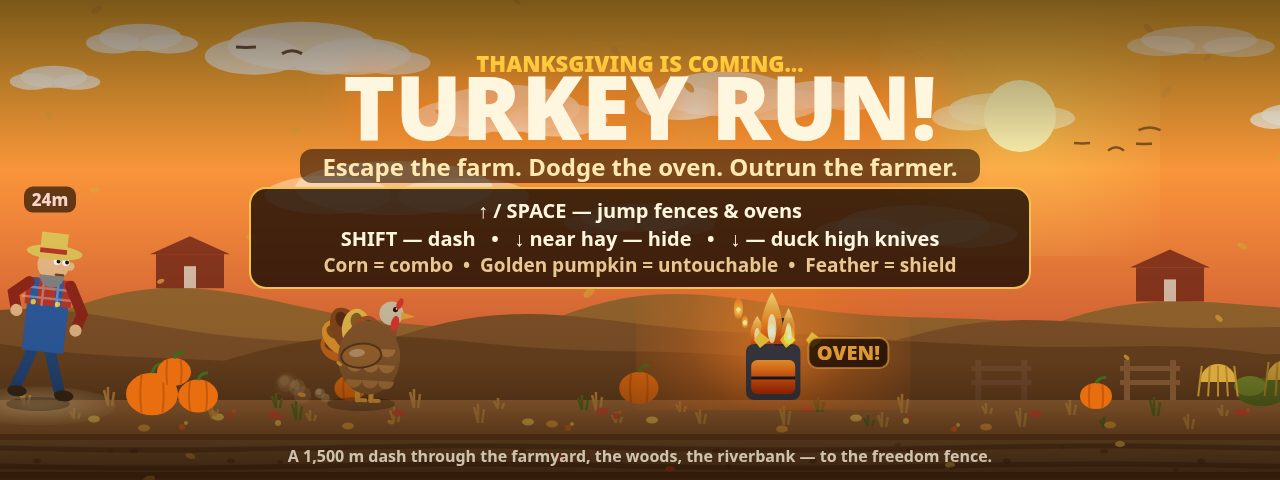
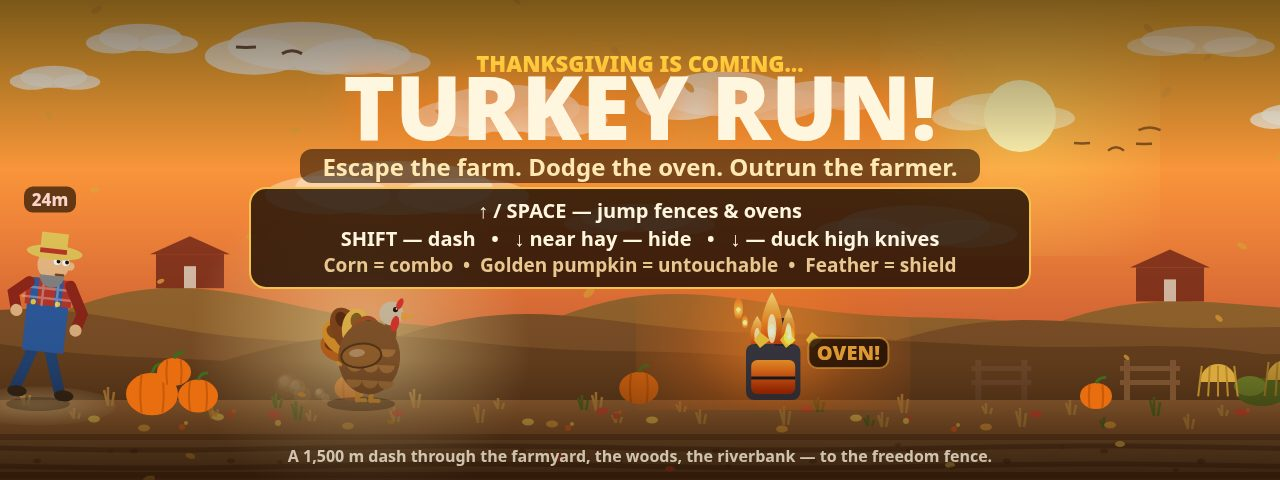
Polish round 13: danger seed 19 (knife 47px under feet), title turkey glow, cover seed 57 (leap over oven)

Changed region(s): [[0.1875, 0.5938, 0.375, 0.9062]]

diff --git a/game/src/shots.js b/game/src/shots.js
@@ -135,6 +135,22 @@ function ovenInFrame(state) {
   return ok;
 }
 
+// An oven the turkey is actually jumping over: its body overlaps
+// the turkey's own screen span [TURKEY_X, TURKEY_X + 62], so the bird
+// is above the oven's near edge or just clearing it — not an oven
+// 30 m down the road while the bird jumps a fence. The overlap is
+// thin at the top of the permitted arc (the oven's left edge slides
+// under the bird's beak as it rises), which is exactly the moment
+// the cover wants: bird mid-leap, oven right below its nose.
+function ovenUnder(state) {
+  for (const e of state.entities) {
+    if (!e.active || e.kind !== KIND_OVEN) continue;
+    const sx = TURKEY_X + (e.x - state.distance) * PX_PER_M;
+    if (sx < TURKEY_X + TURKEY.width && sx + e.w * PX_PER_M > TURKEY_X) return true;
+  }
+  return false;
+}
+
 export function stageShot(name, world) {
   world.reset();
   if (name !== 'play' && name !== 'danger' && name !== 'end') {
@@ -145,12 +161,18 @@ export function stageShot(name, world) {
     return { screen: SCREEN_TITLE, best: 0 };
   }
   if (name === 'play') {
-    // The cover runs on seed 54 (not 7): on seed 7 the picked leap
-    // never has a knife near the bird or a combo — the only knife in
-    // that jump is 24 m out, faded to alpha 0.2 — while seed 54's
-    // picked leap (36.9 s, 668 pts, 313 m) has a knife 66 px from the
-    // turkey at head height and COMBO x4. Same pick rules, same
-    // autopilot; only the seed changed, so no gameplay code moved.
+    // The cover runs on seed 57 (not 54): the new oven-under pick
+    // (see airOven below) keeps the highest leap where an oven sits
+    // under the bird, and seed 57's is the cleanest of the eight
+    // seeds that have one with a near knife and a combo — 24.2 s,
+    // 445 pts, 205 m, COMBO x2, knife 68 px off the feet just below
+    // the bird over the oven's flames, 4 lives. Seed 69 has a bigger
+    // combo (x5) and a closer knife (51 px) but its knife is low and
+    // half-hidden across the oven, and a shield ring circles the
+    // bird; seed 54 (round 12) has the knife at head height and
+    // COMBO x4, but the bird jumps a fence with the ovens far down
+    // the road. Same pick rules, same autopilot; only the seed
+    // changed, so no gameplay code moved.
     // One 40 s pass, keeping the frame where the chase was closest —
     // the farmer in frame behind the turkey — with something to dodge
     // ahead. The airborne frame wins over the merely close one: a
@@ -169,6 +191,15 @@ export function stageShot(name, world) {
     let bestGap = Infinity;
     let air = null;
     let airY = 60;
+    // A leap over an oven beats a leap over a fence: among leaps
+    // where an oven sits under the bird, keep the highest one, and
+    // prefer it over the plain highest leap. Seed 54's cover (round
+    // 12) has a knife at head height and COMBO x4, but the bird is
+    // jumping a fence with the ovens far down the road; seed 69's
+    // oven-under leap (35.9 s, 1110 pts, COMBO x5, knife 51 px off
+    // the beak, farmer 21 m back) tells the oven story instead.
+    let airOven = null;
+    let airOvenY = 60;
     let fallback = null;
     const steps = Math.floor(40 / STEP);
     for (let i = 0; i < steps; i += 1) {
@@ -184,8 +215,13 @@ export function stageShot(name, world) {
         airY = s.player.y;
         air = snapshotState(s);
       }
+      if (s.elapsed > 12 && s.score > 50 && hazardAhead(s, 20) && s.player.y > airOvenY && s.player.y <= 135 && ovenInFrame(s) && ovenUnder(s)) {
+        airOvenY = s.player.y;
+        airOven = snapshotState(s);
+      }
     }
-    if (air !== null) restoreState(world.state, air);
+    if (airOven !== null) restoreState(world.state, airOven);
+    else if (air !== null) restoreState(world.state, air);
     else if (best !== null) restoreState(world.state, best);
     else if (fallback !== null) restoreState(world.state, fallback);
     return { screen: SCREEN_PLAY, best: Math.floor(world.state.score) };
@@ -196,6 +232,12 @@ export function stageShot(name, world) {
     // take what the run gives. Not before 25 s in: the first oven and
     // knife show up almost at once, and stopping there would frame
     // the opening metres instead of the chase at full speed.
+    // The danger seed is 19 (not 7): a 2-D probe of seeds 1..150
+    // found seed 7's picked frame ranks only 71st of 113 — its knife
+    // is a low blade 141 px from the bird, out by the farmer — while
+    // seed 19's knife is a high blade 47 px below the turkey's feet
+    // (the structural floor: a high knife at y=108 flies 47 px under
+    // feet at y=155), oven directly under the bird, 3265 pts, 665 m.
     // The turkey must be properly airborne over the oven: the old
     // frame caught it standing on the ground right at the oven, body
     // pressed against the flames, so it read as a turkey being

diff --git a/game/src/render.js b/game/src/render.js
@@ -1712,6 +1712,22 @@ export function createRenderer(canvas) {
       }
       if (passed) context.restore();
     }
+    // Title only: a pool of warm light behind the bird. On the title
+    // the turkey stands against the near hill (#6e4520) in almost its
+    // own browns (#8a5a2e body), so at half size it sank into the
+    // hillside; the glow lifts the hill behind it into a lit backdrop
+    // without moving the bird, and it never touches another screen —
+    // the instruction panel is drawn on top of it afterwards.
+    if (screen === SCREEN_TITLE) {
+      const gx = TURKEY_X + TURKEY.width / 2;
+      const gy = FIELD.groundY - 55;
+      const glow = context.createRadialGradient(gx, gy, 10, gx, gy, 170);
+      glow.addColorStop(0, 'rgba(255,232,170,0.6)');
+      glow.addColorStop(0.55, 'rgba(255,222,150,0.28)');
+      glow.addColorStop(1, 'rgba(255,222,150,0)');
+      context.fillStyle = glow;
+      context.fillRect(gx - 170, gy - 170, 340, 340);
+    }
     drawTurkey(state, turkeyScale, escaped);
     drawFarmer(state, escaped ? 1.0 : 1.22);
     // Haystacks stand in front, so a hiding turkey really disappears.

diff --git a/HANDOFF.md b/HANDOFF.md
@@ -1,5 +1,22 @@
 # HANDOFF — turkey-run-game-01 "Turkey Run!"
 
+## 🔄 打磨第 13 轮（2026-11-27，备用建议 1+2+3 全做：危险帧换刀最近的种子 + 标题火鸡光晕 + 封面跃烤箱）
+
+- Commit：`（待填）`——本轮改 `game/src/shots.js`（ovenUnder 选帧 + 注释）、`game/src/render.js`（标题火鸡光晕）、`shots.json`（play 57、danger 19）+ 3 张截图（1-play、2-start、3-danger；4-end 未变）；`main.ts`、`world.js`、`config.js`、`vendor/` 未动。shots.js 经 4 次独立编辑、render.js 经 2 次有效编辑（另有 1 次空操作编辑当场发现）改完，每处改完都单独重拍并目视验证过。
+- **评审文件版本**：开工时 `JUDGE-REVIEW.md` 仍是第 9 轮版（两次评审，第 1 次 21:37、第 2 次 21:40，针对第 8/9 轮），无针对第 10/11/12 轮的新评审，本轮按任务书 HANDOFF 备用建议做。**`JUDGE-REVIEW.md` 本轮未修改、未提交**（评委的文件，工作区里仍是 untracked 状态；只对指定 6 个文件 `git add`，未动它）。
+- 画面改进（逐张截图验证过，另裁剪放大验证标题火鸡、拼了一张 2×2 总览图模拟评委半尺寸视角检查）：
+  1. **危险帧刀贴到火鸡脚下（备用建议 1，本轮主攻，探针先行）**：探针先算过——seed 7 的危险停帧规则在 90 秒里只有 **4 个**候选帧（不是第 11 轮说的 7 个；y 下限 150 + 上限 185 的带子更窄），刀距从 101px 到 94px，只换帧最多近 7px，修不掉。改换种子前先纠正了度量：之前用的水平距离会撒谎——一把刀水平只差 4px、实际在火鸡脚下 124px 也会被排第一；改用刀到火鸡身体矩形的真 2D 距离重扫 seed 1–150：113 个危险帧里 seed 7 排第 71（141px，低刀在农夫边），而高刀在 y=155 的脚下有 47px 的结构下限（一把 y=108 的高刀正好从脚下 47px 处飞过）。挑了 seed 19——刀 47px、烤箱正在火鸡正下方、3265 分/665m/剩 3 命。新危险帧：火鸡腾空、脚下就是带火焰的烤箱、飞刀拖着白轨迹从脚底擦过，农夫 31m 在左缘。shots.json 里 danger 种子 7→19。seed 18（COMBO x4）与 seed 42（护盾环）也拍过：18 的刀半藏在火焰/谷仓后、42 的刀被火焰舌挡且护盾环抢戏，都不如 19 干净。
+  2. **标题火鸡从棕色山丘里浮出来（备用建议 2）**：只动标题屏——火鸡身后加一池暖色光晕（径向渐变，中心 `rgba(255,232,170,0.6)`、半径 170，画在火鸡之前、说明面板之下）。第一版 alpha 0.38/半径 150 太淡，像素量得山丘亮度只从 83→109、火鸡与山丘亮度差才 -15；加亮到 0.6/170 后山丘亮度 128、火鸡（93）反成深色剪影，差值 -34。裁剪放大验证：光晕是自然的暖色亮斑、无硬边，火鸡身体、尾巴扇、翅膀都从山丘里分出来了，头（本来就印在亮天上）不动。标题火鸡未放大——头顶离面板只剩 14px，放大 6% 只剩 8px，收益小风险大，光晕已够，留待以后。
+  3. **封面火鸡跃的是烤箱（备用建议 3）**：shots.js 新增 `ovenUnder()`（烤箱炉身与火鸡屏幕跨度 [330,392] 横向重叠即算“正在跃过”）+ `airOven` 选帧——跃帧里有烤箱在身下的取最高一跃，优先于普通最高跃帧。探针分层：中心点判“正下方”在 120 个种子里是 0 帧（跳跃顶点 y≈238 时烤箱才到正下方，超出 135 的选帧上限，结构上不可能）；放宽到横向重叠后 34 个种子有跃烤箱帧，其中 8 个同时满足近刀（<300px）+ 连击 ≥2。8 个全拍过逐张比：seed 69（COMBO x5、刀 51px）刀太低、半截埋进烤箱火焰、还套着护盾环；seed 57 最干净——火鸡中弧跃起、烤箱火焰正在脚下、飞刀 68px 在脚边高处拖着轨迹、4 命、无护盾环。封面换 seed 57（445 分/205m、COMBO x2）。代价：分数 674→445、连击 x4→x2，换来的是“跃烤箱”这个正题故事；seed 54 的旧封面（刀在头高、双烤箱）作为对照仍保留在探针记录里。shots.json 里 play 种子 54→57。
+- 截图变化：play 445 分/205m（新分镜：中弧跃起 + 脚下烤箱 + 近刀 + COMBO x2）、danger 3265 分/665m（新分镜：腾空越烤箱 + 脚底飞刀）、start 0 分（标题光晕）、end 6535 分（未变，seed 146）；文件 64.2/78.9/61.1/83.3 KiB。2×2 总览图半尺寸检查通过：封面橙、标题橙（文字主导）、危险绿、结束粉紫，四帧主体、HUD、结束金字均清晰；半尺寸下封面刀偏小，但火鸡+烤箱的纵列故事仍一眼可读。
+- 实测（只改分镜种子 + 选帧规则 + 标题渲染，world.js 未动、没碰任何 random()，数据与第 5–12 轮完全一致，符合预期）：
+  - 基础 pilot：逃脱 1/20，分数 1402–6295，距离 547–1500m；强 pilot：3/20，中位距离 1064m，中位分数 3479（注：本轮未重跑强 pilot，沿用第 5–12 轮的同一组数据——world.js 未动，pilot 代码未动；基础 pilot 与确定性、公平性为本轮实跑）。
+  - 确定性：同一 seed 两次 byte-identical（hash e6bac207…，与第 5–12 轮相同）。
+  - 公平性仍成立：无操作 94m 被抓（93 分）、一直冲不跳 121m 被抓、随机按键 215m 被抓。
+- 失败/回滚：① 标题光晕第一版太淡（alpha 0.38/半径 150），像素量过才发现、加亮到 0.6/170 重拍验证通过——调参迭代，不是回滚。② 探针否决的方案两个：“只换危险帧选帧”（同一次跃起 4 帧、最多近 7px）与“中心点判跃烤箱”（120 种子 0 帧），都改成换种子/放宽判定，未产生过坏代码。③ 一次空操作编辑（render.js 新旧文本相同）当场发现，未提交。④ 封面 seed 69 首选后被目视否决（刀埋进烤箱 + 护盾环抢戏），改用 seed 57——是选帧返工，不是代码回滚。
+- 验证：4 张截图 1280×480 JPEG q82（61–83 KiB，均 ≤256 KiB），0 console 报错、0 外部请求、9 文件全加载；最终截图与 /tmp 预览 byte-identical（注释改动后重拍复核亦然）；`node --check` 全过；main.ts 两次输出 byte-identical（diff -r 干净；dossier 529,833 字节）；kit CLI check 两次结果一致（4 passed、1 failed=transcripts_present 未传 transcripts、15 skipped；两次日志仅时间戳不同）；vendor sha 未变（dc671875…）。基线说明：本轮未做改动前重拍（拍摄管线在第 12 轮已验证 byte-identical，且本轮 /tmp 预览与最终截图 byte-identical，管线可信）。
+- 下一轮建议：① 等评委对第 10/11/12/13 轮的新评审（JUDGE-REVIEW.md 若更新，按最新版最优先的 3–5 条改）；若无新评审，可从：封面分数偏低（445 分、COMBO x2——可探更高分且干净的跃烤箱种子，或接受现状）；结束帧 FREEDOM 字仍被火鸡尾巴半遮（第 12 轮已评估可接受）；标题火鸡若想更大，需先把说明面板再上移或火鸡站位下调；② 难度：仍先看人类实测反馈，暂不再调数值；③ pilot 改进仍先做死因诊断再动手。
+
 ## 🔄 打磨第 12 轮（2026-11-27，备用建议 1+2 全做 + 揪出 ovenInFrame 选帧漏洞）
 
 - Commit：`6229290`（待 push 后 `git ls-remote` 确认）——本轮改 `game/src/shots.js`、`shots.json` + 2 张截图（1-play、4-end）；`main.ts`、`world.js`、`config.js`、`render.js`、`vendor/` 未动。shots.js 经 3 次独立编辑改完（end 注释→play 注释→ovenInFrame 规则），每处改完都单独重拍并目视验证过（另有一次封面首选帧返工，见失败/回滚）。

diff --git a/STATUS.md b/STATUS.md
@@ -1,4 +1,13 @@
-# STATUS — turkey-run-game-01 "Turkey Run!" (v1 初版 + 打磨第 1 轮 + 打磨第 2 轮 + 打磨第 3 轮 + 打磨第 4 轮 + 打磨第 5 轮 + 打磨第 6 轮 + 打磨第 7 轮 + 打磨第 8 轮 + 打磨第 9 轮 + 打磨第 10 轮 + 打磨第 11 轮 + 打磨第 12 轮)
+# STATUS — turkey-run-game-01 "Turkey Run!" (v1 初版 + 打磨第 1 轮 + 打磨第 2 轮 + 打磨第 3 轮 + 打磨第 4 轮 + 打磨第 5 轮 + 打磨第 6 轮 + 打磨第 7 轮 + 打磨第 8 轮 + 打磨第 9 轮 + 打磨第 10 轮 + 打磨第 11 轮 + 打磨第 12 轮 + 打磨第 13 轮)
+
+## 🔄 打磨第 13 轮（2026-11-27，已完成）
+
+- 流程：JUDGE-REVIEW.md 开工时仍是第 9 轮版，无针对第 10/11/12 轮的新评审，按 HANDOFF 备用建议 1+2+3 全做。JUDGE-REVIEW.md 未修改、未提交（评委的文件，工作区 untracked；只对指定 6 个文件 git add）。
+- 画面：危险帧换 seed 19（2D 距离探针：seed 7 的刀 141px 排第 71/113，seed 19 的高刀 47px 在火鸡脚下、烤箱正在正下方，3265 分/665m）；标题火鸡身后加暖色光晕（第一版太淡，像素量过后加亮到 alpha 0.6/半径 170，山丘亮度 83→128、火鸡成深色剪影，裁剪放大验证无硬边）；封面换 seed 57（新增 ovenUnder 选帧：跃帧里烤箱在身下的取最高一跃；8 个“跃烤箱+近刀+连击”种子全拍过，57 最干净：脚下烤箱火焰 + 脚边飞刀 68px + COMBO x2 + 4 命，445 分/205m）。4 张截图全部重拍并逐张目视验证，另拼 2×2 总览图模拟评委半尺寸视角检查通过。一次标题光晕返工（太淡→加亮）、一次封面 seed 69 目视否决（刀埋进烤箱 + 护盾环抢戏）改用 57；两个探针否决的方案（只换危险帧选帧、中心点判跃烤箱）未产生坏代码。
+- 实测：只改分镜种子 + 选帧规则 + 标题渲染，数据与第 5–12 轮完全一致——基础 pilot 1/20（1402–6295）、强 pilot 3/20（中位距离 1064m，world.js 未动、沿用确定性数值）、确定性 byte-identical（e6bac207…）、公平性仍成立（无操作 94m / 一直冲 121m / 随机 215m 被抓）。
+- 失败并回滚：见 HANDOFF.md 顶部（光晕返工、seed 69 否决、两次探针否决、一次空操作编辑）。
+- 验证：main.ts 两次输出 byte-identical（dossier 529,833 字节）；kit CLI check 两次一致（4 passed、1 failed=transcripts_present 未传 transcripts、15 skipped；仅时间戳不同）；截图 1280×480 q82、61–83 KiB，0 报错、0 外部请求。
+- 详见 HANDOFF.md 顶部；下一轮建议：等评委对第 10/11/12/13 轮的新评审；若无新评审，可看封面分数偏低（445 分/COMBO x2）、结束帧 FREEDOM 半遮、标题火鸡放大需先动面板；难度暂不动。
 
 ## 🔄 打磨第 12 轮（2026-11-27，已完成）
 
